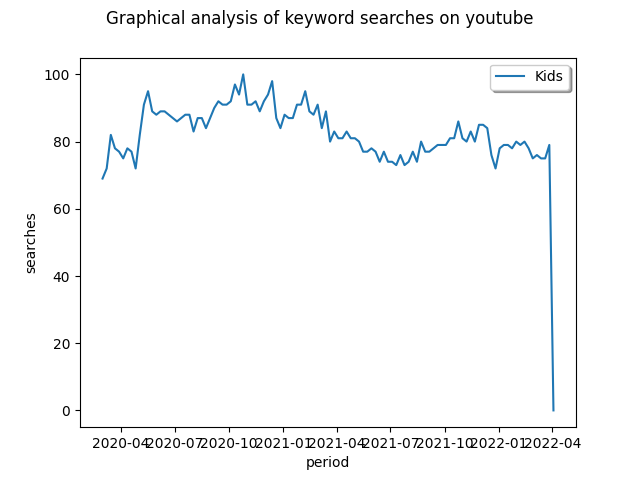
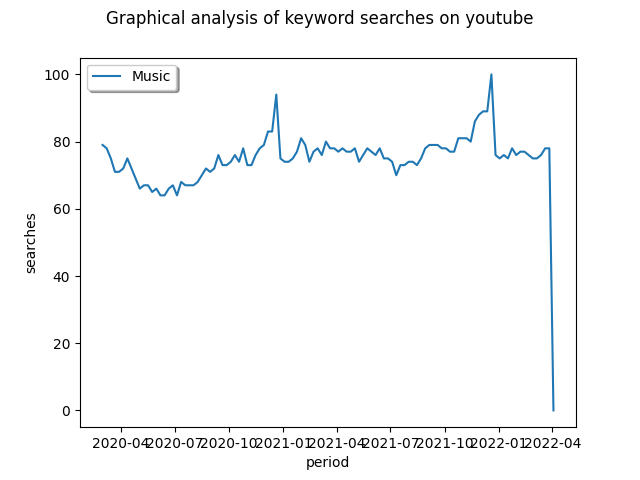
changes

diff --git a/app.py b/app.py
@@ -49,7 +49,7 @@ def index():
     
     
    
-    keyword=['Data science']
+    keyword=['Music']
     # extract data about keywords
     # your_input=str(input('Enter the keyword: '))
     # your_input='Computer'
@@ -60,7 +60,7 @@ def index():
 
     pytrends.build_payload(keyword,timeframe=f'2020-02-26 {date.today()}', gprop = 'youtube', geo='US')
     # word=keyword.pop()
-    word='Data science'
+    word='Music'
     
     # specify and get data
     data= pytrends.interest_over_time()
